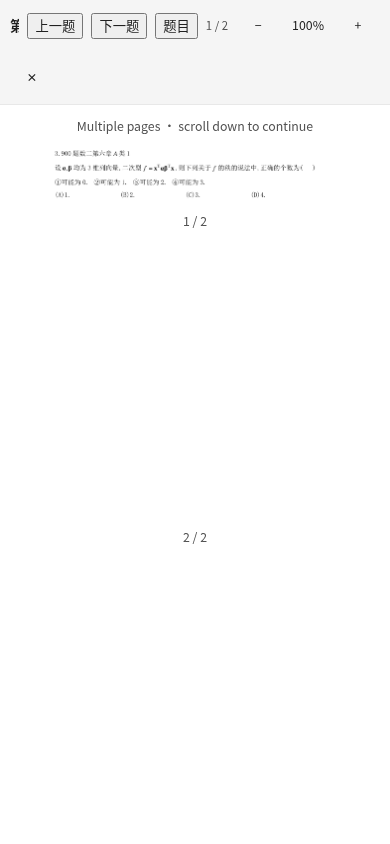
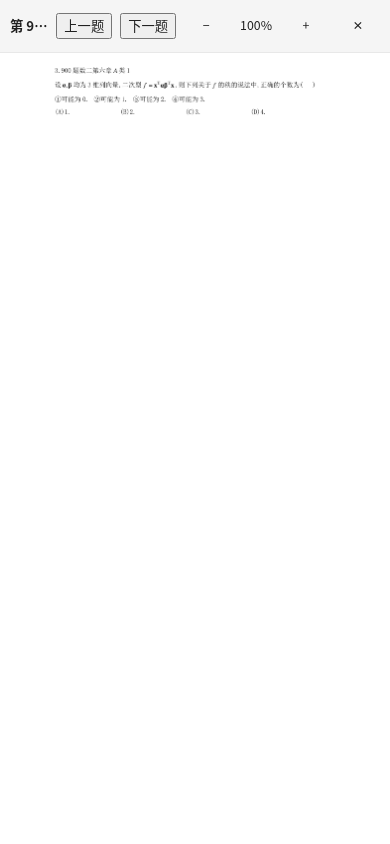
docs: record EI exam rollout, evaluation QA and rollback procedure

diff --git a/docs/focus-training-20261121/README.md b/docs/focus-training-20261121/README.md
@@ -84,3 +84,50 @@ sh /var/snap/docker/common/time-tracker-ha/releases/focus-training-36efc8f/rollb
 - 隔离冒烟清理完成：测试User1、Paper2、Item55、Share23、TimingSession1、LearningRecoveryState1及相应会话；该账号Attempt始终0。旧用户试卷已清理，因此测试结束生产Paper为0，用户可从新入口建立自己的新卷。
 - 首个已留存备份完成时间03:41:30→线上验收/清理完成04:05:12，**可核对区间23分42秒**；不冒充包含最初阅读的总开发墙钟。备份与开发并行。相关自动化单次均不足1分钟，但迭代校验、浏览器验收和宿主控制面阻塞使整个发布远超过1分钟，未隐去重试。
 - 首轮本地构建Vite7.59秒，最终Vite6.87秒；3次本地构建，远端增量镜像1次。错误门禁与宿主阻塞导致多次服务切换尝试，原因和改进已追加 `.codex/DEVELOPMENT_WORKFLOW.md`，不把这次当“一分钟上线”示范。
+
+## 2026-11-21 后续：考试模式、自评与 EI（当前生产）
+
+### 已发布内容
+
+- 侧栏统一为“考试模式”；全屏仅保留翻题和收藏，隐藏答案按钮；普通页仍可随时查看原图答案和进入标准练习。删除答案PDF按钮，保留题目PDF。
+- 收藏复用既有用户状态API及版本冲突处理。本人套卷可确认后删除，不删除原题、收藏、Attempt或学习状态。
+- 自评沿用 `/papers/:uuid/review?mode=self`：小题点击满分/取消，大题双宽输入框，独立备注、总分和自动保存。私有字段不进入公开分享；不创建Attempt、不修改掌握状态。
+- EI使用同一套考试/分享/自评设施；蓝图、列表、生成、详情、自评、删除、PDF都按workspace和owner隔离。EI分享仍使用 `ei.ehzsy.site` 聚合原单题链接。
+
+### EI 考纲证据及配额
+
+依据已上传原文件 `892 电子信息专业综合.pdf` 第1页；第7页署2025-06-30。180分钟150分，五科各约20%；选择/填空/简答/计算证明30/30/30/60分。原PDF**未规定题数**，UI明确显示30题是训练配置，不能宣传成官方固定题数。
+
+|课程|选择（3分）|填空（3分）|简答（6分）|计算证明（12分）|总分|
+|---|---:|---:|---:|---:|---:|
+|电路|0|2|2|1|30|
+|模电|4|4|1|0|30|
+|数电|4|2|0|1|30|
+|信号|2|2|1|1|30|
+|通信|0|0|1|2|30|
+
+按最终ExamType分类，优先canonical知识点所属题册判科；无明确归属混合题册不猜测。仅选完整、非空、达尺寸要求的题干/答案图，排除超纲和未解决勘误。条件不足直接400并指出缺少章节，不放宽状态/近期排除。现有通信简答等题源稀少，严格排除近期题可能导致不能组卷，是预期的缺题反馈。
+
+### 迁移、备份及回滚
+
+- `0043_paper_self_evaluation`：仅新增条目 `self_score`、`self_note`，分数范围约束；`0044_ei_focus_blueprint`：仅新增EI训练模板及15个非空section，不停用数学模板。均已生产应用。
+- 有效用户数据、Schema及配置备份：`/var/snap/docker/common/time-tracker-ha/backups/round2-exam-followup-20261121`，verify-exit=0。未重复备份不变题库。
+- 当前生产 `time-tracker-ha:20261121-exam-ei-daa3fc8`，保留前版 `time-tracker-ha:20261121-focus-training-36efc8f`。本轮回滚：
+
+```sh
+sh /var/snap/docker/common/time-tracker-ha/releases/exam-ei-daa3fc8/rollback.sh
+```
+
+回滚只恢复旧Web配置与镜像，**不反向删除新字段或恢复整库**，保留新自评和EI题单数据；旧界面暂不暴露EI考试，后续恢复新版本可继续使用。队列仍用其原有独立镜像。
+
+### 故障维护与实际计时
+
+用户明确批准短维护后，04:28:50启动Docker重启；核实生产PG进程身份后执行SIGINT快速关闭，04:31:53干净结束；04:33:40 Docker控制面恢复，04:34:28原站和PG恢复健康。栈中实际发现dockerd线程阻塞 `squashfs_cache_get`；未重启宿主机，未删除Docker数据。不能把此次维护时间计作功能构建时间。
+
+本轮最终迁移及切换 **04:41:27–04:41:46（19秒）**，新镜像healthy、登录200、队列Result=success/ExecMainStatus=0。47磁盘约11GiB可用（71%）。EI最终前端Vite6.85秒，12局部测试1.378秒，迁移漂移检查无变更。最终EI阶段本地构建1次、远端overlay构建1次；之前用户逐步增加功能产生的构建另见对应提交，不虚报总轮次。
+
+线上真实EI生成30题单次 **379ms**，并验证双图/自评/跨workspace隔离；此为单样本，不是P50/P95。内部冒烟有一次HTTP代理头不完整导致重定向，修正探针后通过，没有改认证策略。截图探针对屏外lazy图等待全部加载曾超时，修正为逐图滚入视口并解码，未关闭产品懒加载。
+
+源提交：62637ce（名称）、c1a2daf（全屏答案入口）、7280b38（收藏/删除/PDF）、1c205c3（自评）、daa3fc8（EI及隔离）。实体iPad Safari/PWA、真实打印机仍未验证；Chromium视口模拟不能替代实机。
+
+最终线上浏览器验收：390×844浅色、1180×820深色，题干及答案逐图实际decode、收藏、全屏下一题且无答案按钮、自评刷新恢复、无横向溢出/JS错误全部通过；公网EI分享返回200且不含私有备注。证据 `ei-production-validation.json`、`ei-exam-*.png`、`ei-self-evaluation-*.png`。独立Subagent只读审查集成提交，未发现权限、题型缓存或图片模式阻断问题。为避免“加载中截图”误当完成，截图额外等待翻题后的实际图像解码。

diff --git a/docs/MASTER_UI_UX_REBUILD_PLAN.md b/docs/MASTER_UI_UX_REBUILD_PLAN.md
@@ -1648,3 +1648,17 @@ R2-01先基线/复现 → R2-02搜索及题目 → R2-03热力图性能与旧视
 | FT-08 | 替换旧入口，删除两套旧试卷，保留回滚 | `PaperView.vue`删除、现有`/paper`重定向、版本模板迁移及私有发布清理脚本 | 旧图像/学习状态不删除；发布结果见本轮报告 |
 
 依赖：FT-01/02/03 → FT-04/05；FT-06/07独立依赖固定题单；FT-08清理必须等有效备份和新镜像健康。此次单Agent按共享文件所有权实施，无跨Agent覆盖。部署、验证、备份与回滚唯一台账：`docs/focus-training-20261121/README.md`。
+
+## 追加：2026-11-21 考试模式后续增量（EX，不覆盖既有矩阵）
+
+|需求|决策/真实文件|测试/证据|状态|
+|---|---|---|---|
+|EX-01 入口叫考试模式|`lib/uiPreferences.ts`、`shared/preferences/labels.ts`|构建与线上界面|已发布|
+|EX-02 全屏隐藏答案入口|`views/PaperExamView.vue`|fullscreen-no-answer-button.json；EI线上截图|已发布|
+|EX-03 收藏与本人删除套卷|`drill/views.py`、`PapersView.vue`、`PaperExamView.vue`|owner隔离/不删学习数据单测，线上收藏|已发布|
+|EX-04 不导出答案PDF按钮|`PaperExamView.vue`、`PaperReviewView.vue`|编译及页面按钮检查，后台旧接口保持兼容|已发布|
+|EX-05 私有自评小题满分/大题双宽输入/备注/总分|`models.py`、0043、serializers/views、`PaperSelfEvaluation.vue`|self-evaluation-browser.json与后续EI线上验证；无Attempt写入单测|已发布|
+|EX-06 EI考纲组卷|0044、`ei_paper.py`、`paper_generator.py`、`PaperNewView.vue`|原考纲180min150分，12局部测试及线上30题真实数据|已发布|
+|EX-07 workspace/owner/分享隐私隔离|serializers/views/sharing/PDF|Drill不可读EI套卷，原图不展示OCR，自评分/备注不公开|已发布|
+
+EX-06训练题数不冒充官方题数；配额和稀缺题源、实测时延、两份新增迁移、安全回滚及未测实机项详见 `docs/focus-training-20261121/README.md`。服务器Docker维护获得用户另行明确批准，不扩展为一般故障可无条件重启数据库的授权。

diff --git a/.codex/DEVELOPMENT_WORKFLOW.md b/.codex/DEVELOPMENT_WORKFLOW.md
@@ -82,3 +82,5 @@
 
 - 2026-11-21固定题单发布：Web与后台队列可能有意使用不同镜像，发布前读取各服务真实镜像，不对不相关服务做字符串替换。停止队列后确认一次性容器名没有残留再启动。复用回滚后，数据迁移虽已记录，模板active状态可能已恢复旧值，再发布必须显式恢复新模板启用状态。Docker控制API超时先用限时`_ping`及实际HTTPS区分控制面/应用可用性，不不断堆积inspect/exec；使用SIGUSR1非破坏性堆栈定位，不凭等待就重启数据库。文件先确认是文本再读取，避免把二进制当脚本输出。时间与未测项记入本轮报告。
 - 同轮补充：不能从仓库存在 `docker-entrypoint.sh` 推断实际生产会执行它；当前预构建服务需要显式 `manage.py migrate`。数据模板迁移需检查实际新模板数量/启用状态；门禁未通过前禁止清理旧数据。先冻结入口名称、Item ID和页面文案再做一次最终构建，避免重复产物。
+
+- 2026-11-21 EI考试增量：先读真实已上传考纲，明确区分官方分值与自定训练题量；复用固定题单设施，workspace不只过滤创建还须覆盖列表/详情/PATCH/PDF。choice/fill/short/large的最终分类与legacy字段不同，候选缓存key必须包含最终题型。懒加载图验收要逐图滚入视口后decode，不等待屏外图片自动全部加载。自评分迁移采取只增字段，回滚镜像不反向drop用户新数据。现有WhiteNoise可用完整Vite dist+gzip overlay替代重复collectstatic；保留旧哈希资源，线上检查真实图片与资源。
